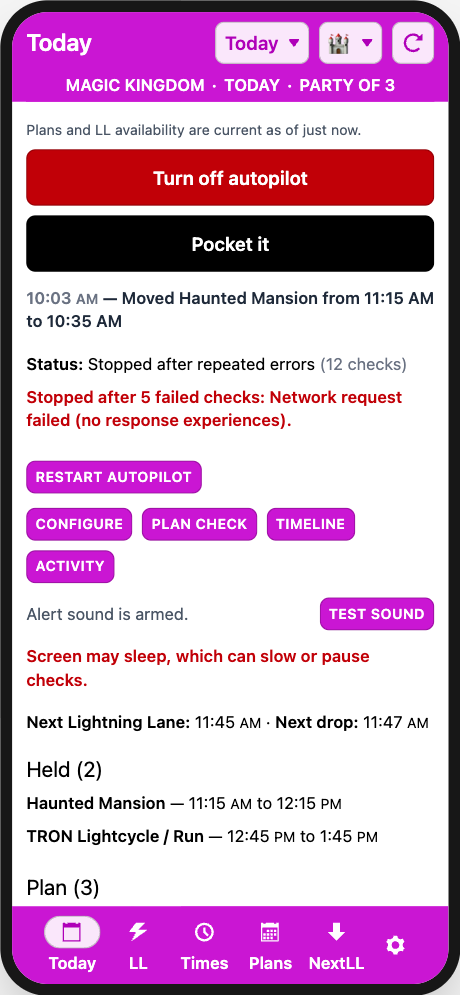
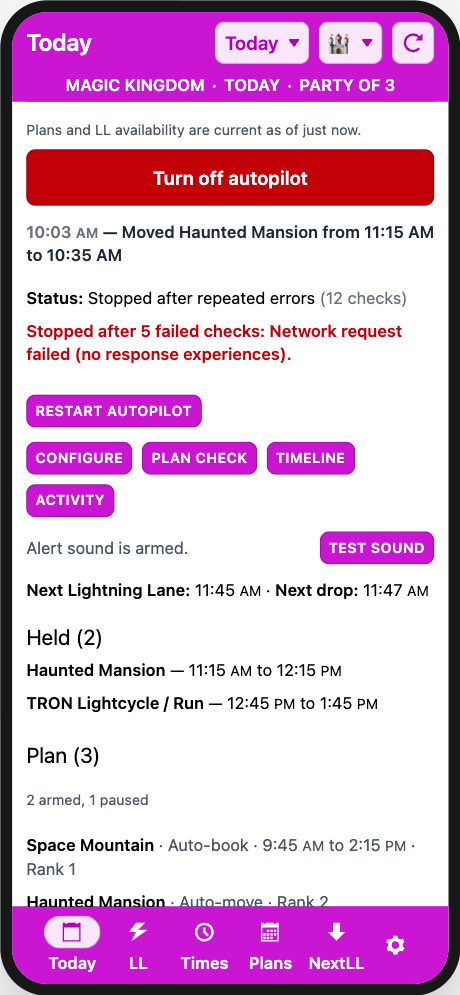
Three small honesty fixes on Today (1.7.2) (#90)
- While Autopilot was stopped, Today's awake line read red "Screen may
  sleep, which can slow or pause checks", though a stop gives the wake
  lock back on purpose and nothing is checking. It now shows only
  while Autopilot runs.
- Pocket it was offered on a stopped run, whose shield could only say
  "Stopped", though its own comment said it was offered only while the
  engine runs. It now goes once the run stops, as NextLL's does.
- The pre-trip checklist has a row for attractions this build does not
  recognise, with Open to Configure, which names them: Today's red line
  said where to look and offered no way there. It cannot be ticked,
  since only an update to the build's data recognises a ride.

The stopped and refused screenshots are retaken.

diff --git a/src/components/ll/screens/Today.tsx b/src/components/ll/screens/Today.tsx
@@ -203,6 +203,7 @@ export default function Today({ ref }: HomeTabProps) {
     notifications,
     sound: soundStatus,
     windowsConfirmed: confirmedWindows === currentWindows,
+    unknownAttractions: unknown,
     planReviewed: reviewedPlan?.key === currentReview.key,
     planBlockers: currentReview.blockers,
   });
@@ -282,8 +283,9 @@ export default function Today({ ref }: HomeTabProps) {
             changes what the screen will accept, which is a different kind of
             action and reads as one at this size. Offered only while the engine
             is running, because that is the only time the wake lock holds the
-            screen on and the glass stays live in a pocket. */}
-        {enabled && (
+            screen on and the glass stays live in a pocket -- which a stopped
+            run is not, though it is still switched on. */}
+        {enabled && status.mode !== 'stopped' && (
           <div className="mt-2">
             <Button
               type="full"
@@ -365,6 +367,7 @@ export default function Today({ ref }: HomeTabProps) {
                         else if (
                           item.subject === 'targets' ||
                           item.subject === 'settings' ||
+                          item.subject === 'unknown' ||
                           (item.subject === 'windows' && item.done)
                         ) {
                           goTo(<Configure />);
@@ -442,19 +445,24 @@ export default function Today({ ref }: HomeTabProps) {
           </Button>
         </div>
       )}
-      {enabled && awakeStatus !== 'unsupported' && (
-        <p
-          className={`mt-3 text-sm ${
-            awakeStatus === 'held'
-              ? 'text-gray-600'
-              : 'font-semibold text-red-700'
-          }`}
-        >
-          {awakeStatus === 'held'
-            ? 'Screen is being kept awake.'
-            : 'Screen may sleep, which can slow or pause checks.'}
-        </p>
-      )}
+      {/* Not once stopped: a stop gives the wake lock back on purpose, and
+          with nothing checking, "can slow or pause checks" was an alarm about
+          nothing. Restart takes the lock again, and the line comes back. */}
+      {enabled &&
+        status.mode !== 'stopped' &&
+        awakeStatus !== 'unsupported' && (
+          <p
+            className={`mt-3 text-sm ${
+              awakeStatus === 'held'
+                ? 'text-gray-600'
+                : 'font-semibold text-red-700'
+            }`}
+          >
+            {awakeStatus === 'held'
+              ? 'Screen is being kept awake.'
+              : 'Screen may sleep, which can slow or pause checks.'}
+          </p>
+        )}
       {unknown > 0 && (
         <p className="mt-3 text-sm font-semibold text-red-700">
           Disney is listing {unknown} attraction{unknown === 1 ? '' : 's'} this

diff --git a/docs/user-guide.html b/docs/user-guide.html
@@ -552,7 +552,7 @@
       stops working.
     </p>
     <div class="masthead-meta">
-      <span>Version 1.7.1</span>
+      <span>Version 1.7.2</span>
       <span>Three parts · 23 sections</span>
       <span>Unofficial · not endorsed by Disney</span>
     </div>
@@ -1125,8 +1125,11 @@
       </figure>
       <p>
         When the day on screen is <strong>not today</strong>, the Today tab
-        becomes a readiness list of up to six items: party saved, at least one
-        target, an action actually armed, return windows confirmed (once there
+        becomes a readiness list of up to seven items: party saved, at least
+        one target, any attractions this build does not recognise (if Disney
+        lists any; <span class="ui">Open</span> goes to Configure, which names
+        them, and it cannot be ticked, since only an update to the app
+        recognises a ride), an action actually armed, return windows confirmed (once there
         is a target), notifications allowed (or, where there are none, the
         alert sound tested), Plan Check reviewed. Each item still to do has a
         button: <span class="ui">Open</span> goes to the screen that fixes it,
@@ -1254,13 +1257,16 @@
           this, and it is best-effort. Today says <strong>Screen is being kept
           awake</strong> while it is held and warns <strong>Screen may
           sleep</strong> when the browser supports the lock but has not granted
-          one. That row appears only while Autopilot is on, because an idle
-          wake lock is expected when no checks are running.
+          one. That row appears only while Autopilot is running, because an
+          idle wake lock is expected when no checks are running: not while it
+          is off, and not once it has stopped, since a stop gives the lock back
+          on purpose.
         </p>
       </div>
       <h4>Put the running phone in your pocket</h4>
       <p>
-        Once Autopilot is on, tap <span class="ui">Pocket it</span>. The
+        Once Autopilot is running, tap <span class="ui">Pocket it</span>. (A
+        stopped run does not offer it: nothing is running to guard.) The
         full-screen guard leaves the poller and notifications running while
         preventing the live glass from reaching the controls underneath it. It
         also blocks page scrolling and pull-to-refresh; a reload would turn
@@ -2201,7 +2207,7 @@
         well, or it may start empty next time.
       </p>
       <p>
-        <strong>Rough edges, as of 1.7.1.</strong> Known, recorded, and not
+        <strong>Rough edges, as of 1.7.2.</strong> Known, recorded, and not
         fixed yet:
       </p>
       <ul>

diff --git a/src/components/ll/screens/Today.test.tsx b/src/components/ll/screens/Today.test.tsx
@@ -86,6 +86,23 @@ describe('Today', () => {
     expect(setEnabled).not.toHaveBeenCalled();
   });
 
+  // Its own comment said "only while the engine is running", and it was
+  // offered on a stopped run too, whose shield could only say "Stopped".
+  it('offers Pocket it only while the engine runs', () => {
+    setup({ enabled: true, status: { ...OFF, mode: 'idle', polls: 3 } });
+    expect(screen.getByRole('button', { name: 'Pocket it' })).toBeVisible();
+  });
+
+  it('offers no Pocket it once it has stopped', () => {
+    setup({
+      enabled: true,
+      status: { ...OFF, mode: 'stopped', consecutiveFailures: 8, polls: 20 },
+    });
+    expect(
+      screen.queryByRole('button', { name: 'Pocket it' })
+    ).not.toBeInTheDocument();
+  });
+
   it('offers a restart only once it has stopped', () => {
     setup({ enabled: true, status: { ...OFF, mode: 'idle', polls: 3 } });
     expect(
@@ -741,6 +758,17 @@ describe('Today screen wake status', () => {
     expect(screen.queryByText(/Screen may sleep/)).not.toBeInTheDocument();
   });
 
+  // A stop gives the lock back on purpose, and nothing is checking, so the
+  // red "can slow or pause checks" was an alarm about nothing.
+  it('omits it once autopilot has stopped', () => {
+    installWakeLock();
+    setup({
+      enabled: true,
+      status: { ...OFF, mode: 'stopped', consecutiveFailures: 8, polls: 20 },
+    });
+    expect(screen.queryByText(/Screen may sleep/)).not.toBeInTheDocument();
+  });
+
   it('shows a held lock and reacts when the browser releases it', async () => {
     const sentinel = installWakeLock();
     await holdScreenAwake(OWNER);
@@ -866,6 +894,18 @@ describe('Today before the trip', () => {
     review(/Return windows confirmed/);
     expect(nav.goTo).toHaveBeenLastCalledWith(<Configure />);
     expect(nav.goTo).toHaveBeenCalledTimes(4);
+  });
+
+  // ROADMAP item 5: Today's red line about these said where to look and
+  // offered no way there.
+  it('lists attractions this build does not recognise, with a way to them', () => {
+    setup({ bookingDate: TOMORROW, unknownExperienceIds: ['a', 'b'] });
+    const row = step(/does not recognise/);
+    expect(row).toHaveTextContent(
+      '○ Disney lists 2 attractions this build does not recognise'
+    );
+    fireEvent.click(within(row).getByRole('button', { name: 'Open' }));
+    expect(nav.goTo).toHaveBeenLastCalledWith(<Configure />);
   });
 
   // Only the browser's own settings change an allowed permission.

diff --git a/src/autopilot/checklist.ts b/src/autopilot/checklist.ts
@@ -7,6 +7,7 @@ export interface ChecklistItem {
   subject:
     | 'party'
     | 'targets'
+    | 'unknown'
     | 'settings'
     | 'windows'
     | 'notifications'
@@ -109,6 +110,7 @@ export function checklist({
   notifications,
   sound,
   windowsConfirmed,
+  unknownAttractions = 0,
   planReviewed,
   planBlockers,
 }: {
@@ -119,6 +121,12 @@ export function checklist({
   sound: AudioStatus;
   /** Whether these targets' windows, as they are now, were confirmed. */
   windowsConfirmed: boolean;
+  /**
+   * How many attractions Disney lists that this build does not recognise.
+   * They cannot be watched, so a plan may be missing one; Configure names
+   * them.
+   */
+  unknownAttractions?: number;
   /** Whether the current park/date/configuration's result was actually shown. */
   planReviewed: boolean;
   /** Blocking findings in that current result. */
@@ -139,6 +147,18 @@ export function checklist({
           : 'Choose at least one target',
       subject: 'targets',
     },
+    // Not a step anyone can tick: only an update to the build's data can
+    // recognise a ride. It is here so the route to the names is a tap, where
+    // Today's red line about it only said where to look.
+    ...(unknownAttractions > 0
+      ? [
+          {
+            done: false,
+            text: `Disney lists ${unknownAttractions} attraction${unknownAttractions === 1 ? '' : 's'} this build does not recognise`,
+            subject: 'unknown' as const,
+          },
+        ]
+      : []),
     {
       done: actions,
       text: actions

diff --git a/src/autopilot/checklist.test.ts b/src/autopilot/checklist.test.ts
@@ -154,6 +154,46 @@ describe('checklist()', () => {
   });
 });
 
+// ROADMAP item 5: a row with a route to the names, where Today only had a red
+// line saying where to look.
+describe('checklist() and attractions this build does not recognise', () => {
+  const base = {
+    partySize: 1,
+    targets: [{ experienceId: 'ride', autoBook: true }],
+    notifications: 'granted' as const,
+    sound: 'idle' as const,
+    windowsConfirmed: true,
+    planReviewed: true,
+    planBlockers: 0,
+  };
+
+  it('says how many, and is never ticked: only a build update fixes it', () => {
+    expect(
+      checklist({ ...base, unknownAttractions: 1 }).find(
+        item => item.subject === 'unknown'
+      )
+    ).toEqual({
+      subject: 'unknown',
+      done: false,
+      text: 'Disney lists 1 attraction this build does not recognise',
+    });
+  });
+
+  it('comes after the targets', () => {
+    expect(
+      checklist({ ...base, unknownAttractions: 3 })
+        .map(item => item.subject)
+        .slice(0, 3)
+    ).toEqual(['party', 'targets', 'unknown']);
+  });
+
+  it('is not a row when every attraction is known', () => {
+    expect(checklist(base).some(item => item.subject === 'unknown')).toBe(
+      false
+    );
+  });
+});
+
 describe('windowsKey()', () => {
   const mk = 'mk';
   const day = 'day';

diff --git a/docs/USER-GUIDE.md b/docs/USER-GUIDE.md
@@ -320,10 +320,13 @@ Three limits worth knowing:
 ![The pre-trip checklist](user-guide/pretrip-checklist.png)
 
 When the day on screen is **not today**, the Today tab becomes a readiness list
-of up to six items:
+of up to seven items:
 
 - Party saved
 - At least one target selected
+- Attractions this build does not recognise, if Disney lists any. **Open** goes
+  to Configure, which names them; it cannot be ticked, since only an update to
+  the app recognises a ride
 - An action actually armed
 - Return windows confirmed, once there is a target
 - Notifications allowed — or, where there are none, the alert sound tested
@@ -428,12 +431,14 @@ verify it manually. If you hear two notes, the channel works.
 > screen wake lock exists to prevent exactly this, and it is best-effort.
 > Today says **Screen is being kept awake** while it is held and warns
 > **Screen may sleep** when the browser supports the lock but has not granted
-> one. That row appears only while Autopilot is on, because an idle wake lock is
-> expected when no checks are running.
+> one. That row appears only while Autopilot is running, because an idle wake
+> lock is expected when no checks are running: not while it is off, and not
+> once it has stopped, since a stop gives the lock back on purpose.
 
 ### Put the running phone in your pocket
 
-Once Autopilot is on, tap **Pocket it**. The full-screen guard leaves the
+Once Autopilot is running, tap **Pocket it**. (A stopped run does not offer
+it: nothing is running to guard.) The full-screen guard leaves the
 poller and notifications running while preventing the live glass from reaching
 the controls underneath it. It also blocks page scrolling and pull-to-refresh;
 a reload would turn Autopilot off.
@@ -1025,7 +1030,7 @@ included, stay as they are. Reload the page afterwards.
 **Between trips, open AutoLL-3 at least once a week** as well, or it may start
 empty next time.
 
-**Rough edges, as of 1.7.1.** Known, recorded, and not fixed yet:
+**Rough edges, as of 1.7.2.** Known, recorded, and not fixed yet:
 
 - The day timeline truncates every target name at 360 px, and its bars are
   14–20 px tall, which is a small tap target.

diff --git a/ROADMAP.md b/ROADMAP.md
@@ -1126,6 +1126,24 @@ required.
 Kept as records of the defect and the acceptance criteria each one closed.
 Their line citations describe the tree before the fix.
 
+### 31. Three small honesty fixes on Today — _completed in 1.7.2_
+
+- **No awake warning once stopped.** While Autopilot was stopped, Today's awake
+  line read red "Screen may sleep, which can slow or pause checks", though a
+  stop gives the wake lock back on purpose and nothing is checking. The line
+  now shows only while it runs; **Restart autopilot** takes the lock again,
+  and the line comes back.
+- **No Pocket it on a stopped run.** Its own comment said it was offered "only
+  while the engine is running", since only then is the screen held, but it was
+  offered whenever Autopilot was switched on, stopped included, where the
+  shield could only say "Stopped". NextLL's new **Pocket it** already went once
+  its search stopped; Today's now does too.
+- **A checklist row for attractions this build does not recognise** (item 5's
+  last part, `FUTURE.md` §2.5's last missing step). Today's red line about them
+  said where to look and offered no way there. The pre-trip list now has a row
+  saying how many, with **Open** to Configure, which names them. It cannot be
+  ticked: only an update to the build's data recognises a ride.
+
 ### 30. Refreshes that keep the screen — _completed in 1.7.1_
 
 Left for AutoLL-3 by AutoLL-5's usability review, because the spinner is the

diff --git a/docs/FUTURE.md b/docs/FUTURE.md
@@ -125,10 +125,10 @@ rather than a hash.
 
 ### 2.5 The pre-trip checklist is missing three steps and has no way back into a finished one
 
-**Mostly done in 1.6.0** (ROADMAP item 27). "Windows set where wanted" is a
-step you confirm, and a finished step keeps its button. Still open: a row for
-unrecognised attraction IDs. "Park and date chosen" is not to be built
-(ROADMAP item 5). What follows is the finding as it was made.
+**Done in 1.6.0 and 1.7.2** (ROADMAP items 27 and 31). "Windows set where
+wanted" is a step you confirm, a finished step keeps its button, and
+unrecognised attraction IDs have a row of their own. "Park and date chosen" is
+not to be built (ROADMAP item 5). What follows is the finding as it was made.
 
 It ships five of its eight steps: party, targets, an action armed,
 notifications, Plan Check. "Park and date chosen", "windows set where wanted"
